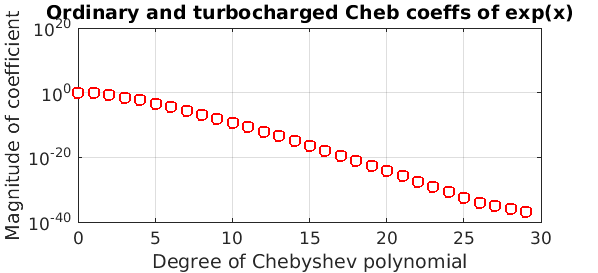
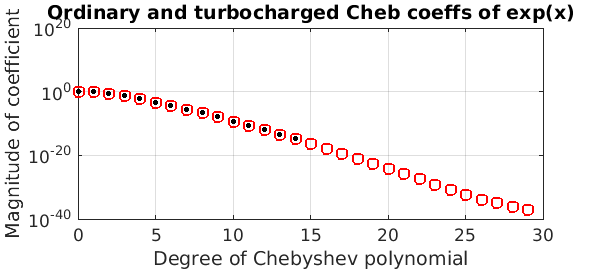
A few changes to cheb/Turbo.m

diff --git a/examples/cheb/Turbo.html b/examples/cheb/Turbo.html
@@ -67,8 +67,8 @@
 <pre class="mcode-input">f = chebfun(@exp);
 fturbo = chebfunturbo(@exp);
 MS = 'markersize'; LW = 'linewidth';
-plotcoeffs(f,'.k',MS,14), grid on, hold on
-plotcoeffs(fturbo,'or',MS,8)
+plotcoeffs(fturbo,'or',MS,8), grid on, hold on
+plotcoeffs(f,'.k',MS,14)
 title('Ordinary and turbocharged Cheb coeffs of exp(x)')</pre>
 
 <p><img src="img/Turbo_01.png" class="figure" alt=""/></p>
@@ -86,18 +86,18 @@ title('Ordinary and turbocharged Cheb coeffs of exp(x)')</pre>
    1.000000000000001
 </pre>
 
-<p>The technique that makes this possible is evaluation of Chebyshev coefficients by contour integrals in the complex plane, discretized to high precision by the trapezoidal rule. Lyness and Moler showed the power of the idea for Taylor coefficients, using circular contours [Lyness and Moler 1967], and Fornberg showed that improved accuracy could be achieved by an automatic determining of an effective radius for the circle of integration [Fornberg 1981]. More recently, Bornemann analyzed the effect of radius fully for Taylor coefficients, showing that in many cases every coefficient of a Taylor series can be computed in floating-point arithmetic to good relative accuracy by using a contour of sufficiently large radius [Bornemann 2011]. Wang and Huybrechs have carried over these ideas to computation of Chebyshev coefficients by contour integrals over Bernstein ellipses in the complex plane [Wang and Huybrechs 2014].</p>
-<p>The code <code>chebfunturbo</code> listed at the end of this Example implements a simple, nonoptimal version of this idea. We like to think of this as ``turbocharged'' since turbochargers take the exhaust tail from an engine and extract some extra power from it.</p>
+<p>The technique that makes this possible is evaluation of Chebyshev coefficients by contour integrals in the complex plane, discretized to high precision by the trapezoidal rule. Long ago, Lyness and Moler showed the power of the idea for Taylor coefficients, using circular contours [Lyness and Moler 1967], and Fornberg showed that improved accuracy could be achieved by an automatic determining of an effective radius for the circle of integration [Fornberg 1981]. More recently, Bornemann analyzed the effect of radius fully for Taylor coefficients, showing that in many cases every coefficient of a Taylor series can be computed in floating-point arithmetic to good relative accuracy by using a contour of sufficiently large radius [Bornemann 2011]. Wang and Huybrechs have carried over these ideas to computation of Chebyshev coefficients by contour integrals over Bernstein ellipses in the complex plane [Wang and Huybrechs 2014].</p>
+<p>The code <code>chebfunturbo</code> listed at the end of this Example implements a simple, nonoptimal version of this idea. We like to think of this as "turbocharged" since turbochargers take the exhaust tail from an engine and extract some extra power from it.</p>
 <p><code>chebfunturbo</code> starts from an ordinary chebfun, calling its length $n$. Then it computes $4n$ roots of unity and also the corresponding points on Bernstein ellipse corresponding to a value $\rho_2$, which is taken to be to be $\rho^{2/3}$.  (The mathematics of Bernstein ellipses is presented in Chapter 8 of [Trefethen 2013].) To compute Chebyshev coefficients from the ellipse data, it evaluates the function transplanted to the roots of unity and takes the FFT.  It then discards half the $4n$ coefficients, retaining the first $2n$.</p>
 <p>The Chebyshev coefficients of the exponential function are known exactly ([Trefethen 2013], p. 23). Taking advantage of this, we can add curves to the plot showing the accuracy of the coefficients.  Note that the turbo coefficients not only go to twice as high a degree, but they are more accurate all along.</p>
 <pre class="mcode-input">n = length(f); nn = (0:4*n-1)';
 cexact = 2*besseli((0:4*n-1)',1); cexact(1) = cexact(1)/2;
 semilogy(0:n-1,abs(chebcoeffs(f)-cexact(1:n)),'.-k',LW,1,MS,3)
 semilogy(0:2*n-1,abs(chebcoeffs(fturbo)-cexact(1:2*n)),'.-r',LW,1,MS,3)
-title('Lines added to show accuracy')</pre>
+title('Lines added to show accuracy'), hold off</pre>
 
 <p><img src="img/Turbo_02.png" class="figure" alt=""/></p>
-<p>Using methods like this, we expect to introduce a <code>turbo</code> option in the Chebyshev constructor.  We don't imagine that this will be of much benefit for the typical Chebfun computation, but there may be some applications where it makes a difference.</p>
+<p>Using methods like this, we expect to introduce a <code>turbo</code> option in the Chebyshev constructor.  We don't imagine that this will be relevant to the typical Chebfun computation, but there may be some applications where it makes a difference.</p>
 <p>As a small indication of enhanced accuracy, here is a chebfun for the function $\exp(x) (1+100x^2)/(1+25x^2)$.  Mathematically, the function has a root at $x= 0.1i$.  Evaluating the ordinary chebfun at this point gives just 8 digits of accuracy.</p>
 <pre class="mcode-input">ff = @(x) exp(x).*(1+100*x.^2)./(1+25*x.^2);
 f = chebfun(ff);
